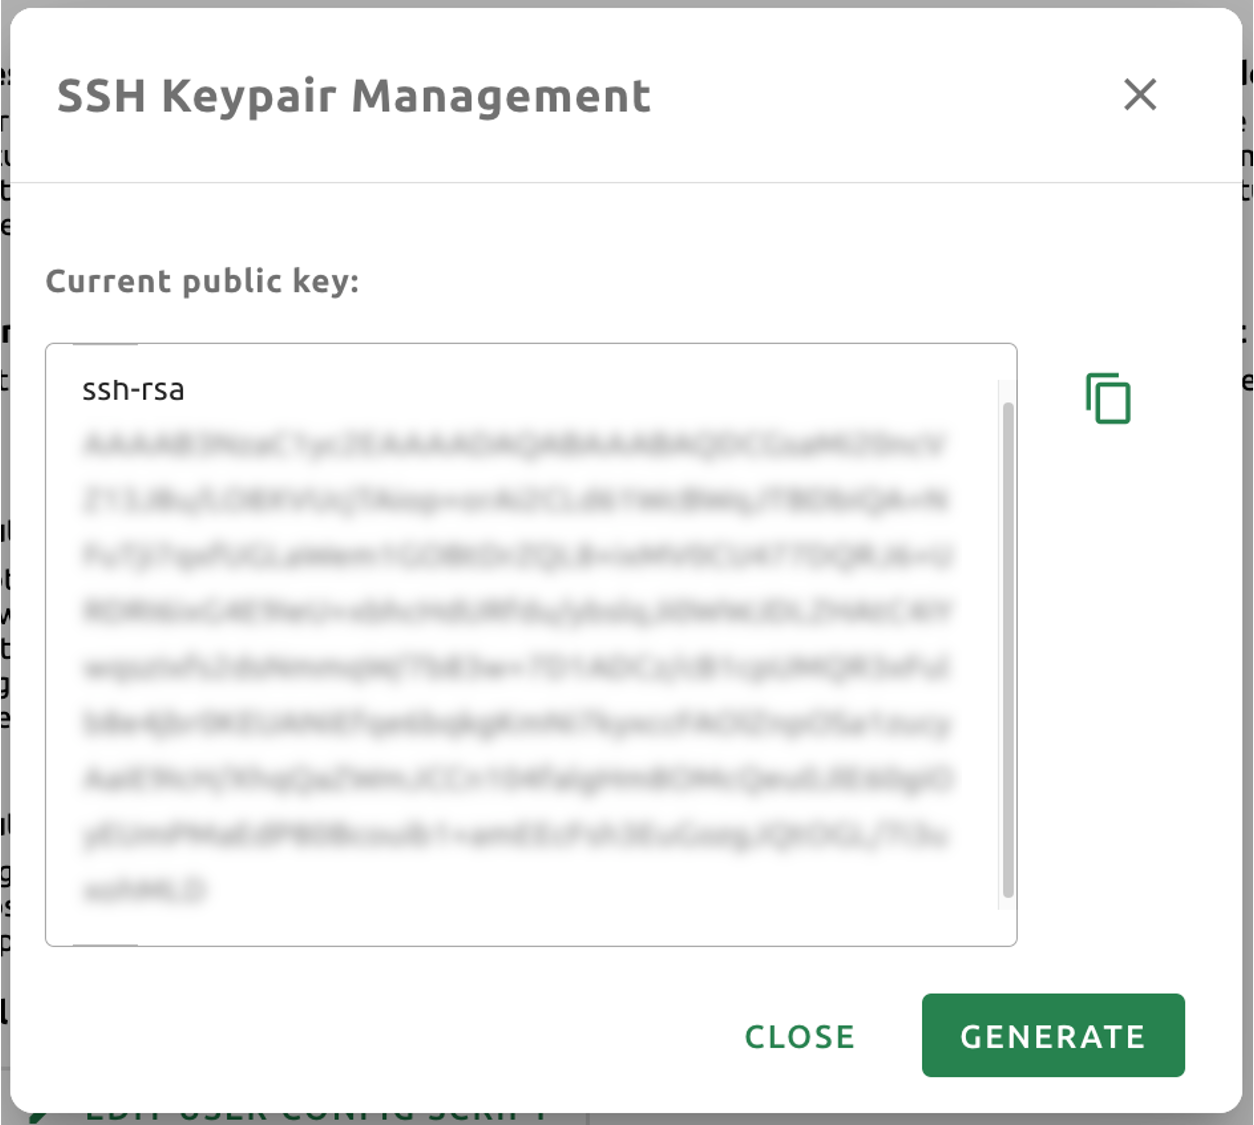
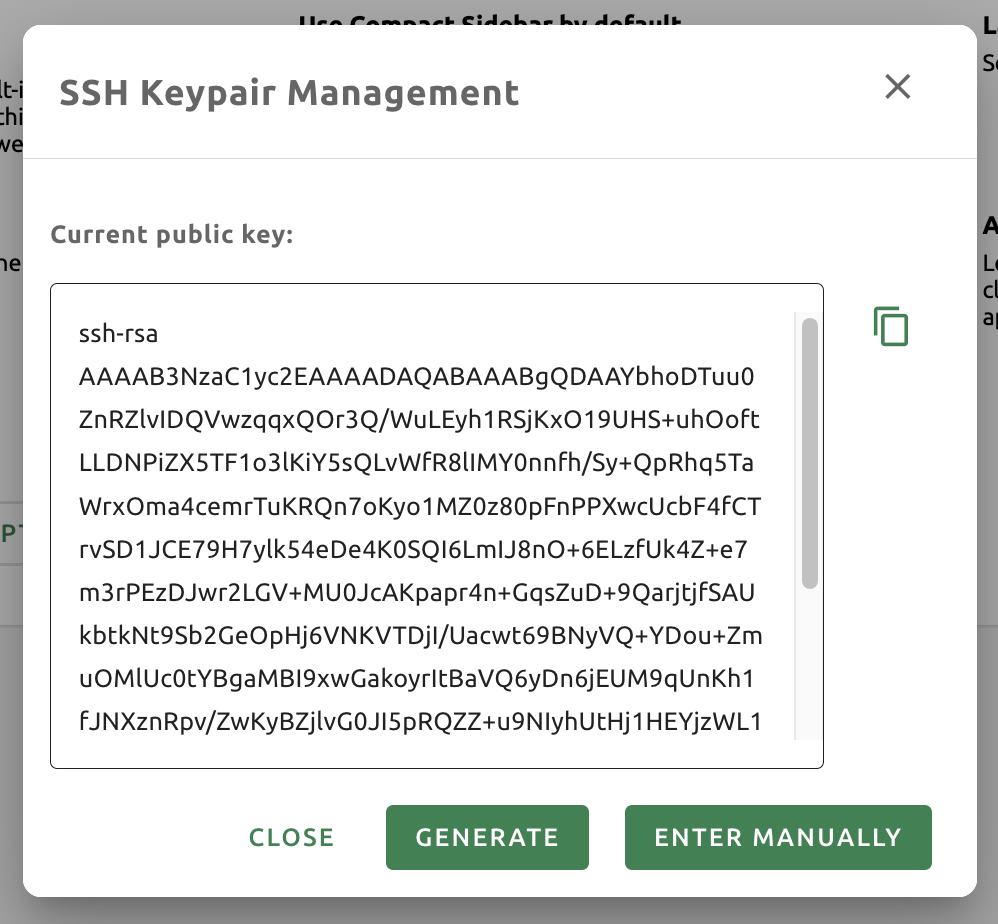
docs: update images in user_settings page

Changed region(s): [[0.0, 0.0, 1.0, 1.0], [0.2485, 0.8788, 0.3417, 0.9394], [0.9008, 0.0606, 0.9319, 0.1212]]

diff --git a/docs/user_settings/user_settings.rst b/docs/user_settings/user_settings.rst
@@ -65,7 +65,7 @@ copy the existing SSH public key. You can update SSH keypair by clicking
 GENERATE button at the bottom of the dialog. SSH public/private keys are
 randomly generated and stored as user information. Please note that the secret
 key cannot be checked again unless it is saved manually immediately after
-creation.
+creation.   
 
 .. image:: ssh_keypair_dialog.png
    :width: 400
@@ -77,6 +77,21 @@ creation.
 .. note::
    Backend.AI uses SSH keypair based on OpenSSH. On Windows, you may convert
    this into PPK key.
+
+From 22.09, Backend.AI WebUI supports adding your own ssh keypair in order to provide 
+flexibility such as accessing to a private repository. In order to add your own ssh keypair, click ``ENTER MANUALLY`` button. Then, you will see 
+two text area which corresponds to "public" and "private" key.   
+
+.. image:: add_ssh_keypair_manually_dialog.png
+   :width: 400
+   :align: center
+
+please enter the keys inside, and click ``SAVE`` button. Now you can access to backend.ai session using your own key. 
+
+.. image:: ssh_keypair_dialog_after.png
+   :width: 400
+   :align: center
+
 
 Automatic Update Check
 ^^^^^^^^^^^^^^^^^^^^^^
